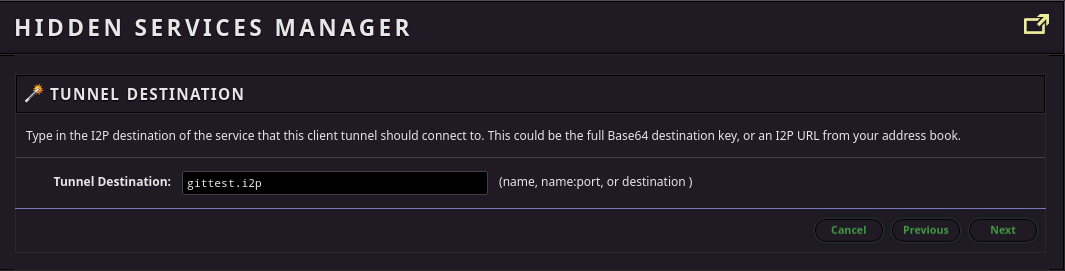
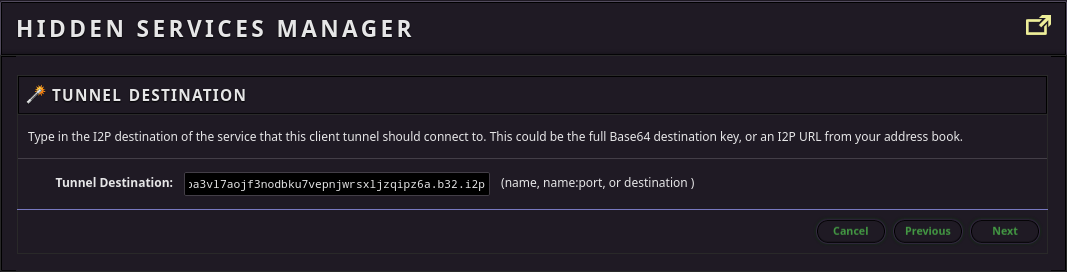
update the step 3 screenshots

diff --git a/GIT.md b/GIT.md
@@ -49,17 +49,38 @@ Then, fork it to your account.
 Third: Set up your git client tunnel
 ------------------------------------
 
+To have read-write access to my server, you'll need to set up a tunnel for your
+SSH client. As an example, we're going to use the HTTP tunnel instead, but if
+all you need is read-only, HTTP/S cloning, then you can skip all this and just
+use the http_proxy environment variable to configure git to use the
+pre-configured I2P HTTP Proxy. For example:
+
+        http_proxy=http://localhost:4444 git clone http://gittest.i2p/welshlyluvah1967/i2p.i2p
+
 ![Client tunnel](wizard1.png)
 
 ![Git over I2P](wizard2.png)
 
+Then, add the address you will be pushing and pulling from. Note that this
+example address is for Read-Only HTTP-over-I2P clones, if your admin does not
+allow the git HTTP(Smart HTTP) protocol, then you will need to get the SSH clone
+base32 from them. If you have an SSH clone base32, substitute it for gittest.i2p
+in this step.
+
 ![gittest.i2p](wizard3.png)
+
+Pick a port to forward the I2P service to locally.
 
 ![localhost:localport](wizard4.png)
 
+I use it alot, so I start my client tunnel automatically, but it's up to you.
+
 ![Auto Start](wizard5.png)
+
+When you're all done, it should look alot like this.
 
 ![Review settings](wizard6.png)
 
 Fourth: Attempt a clone
 -----------------------
+
